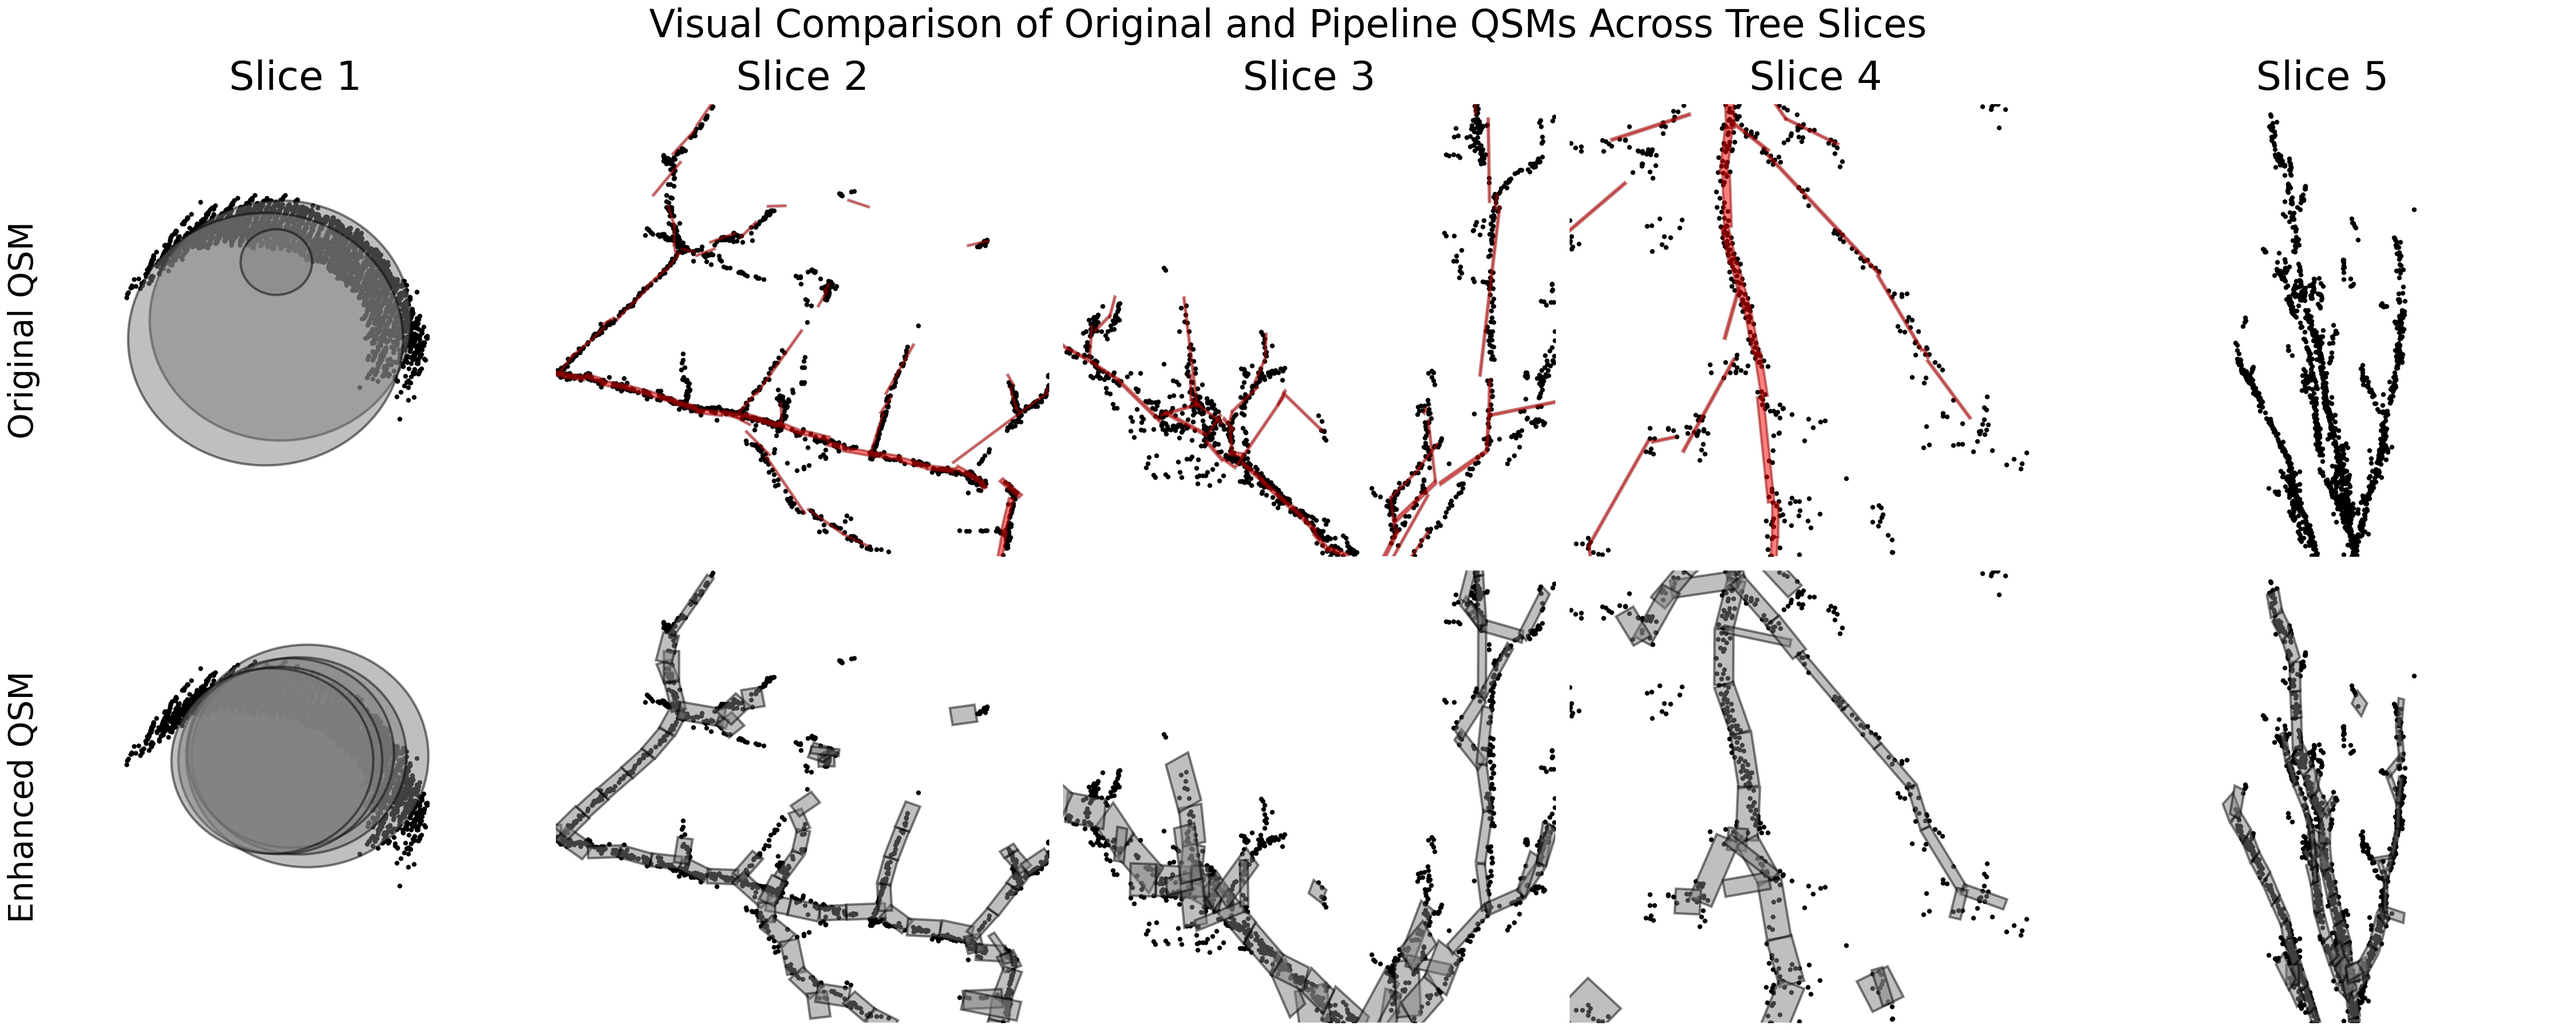
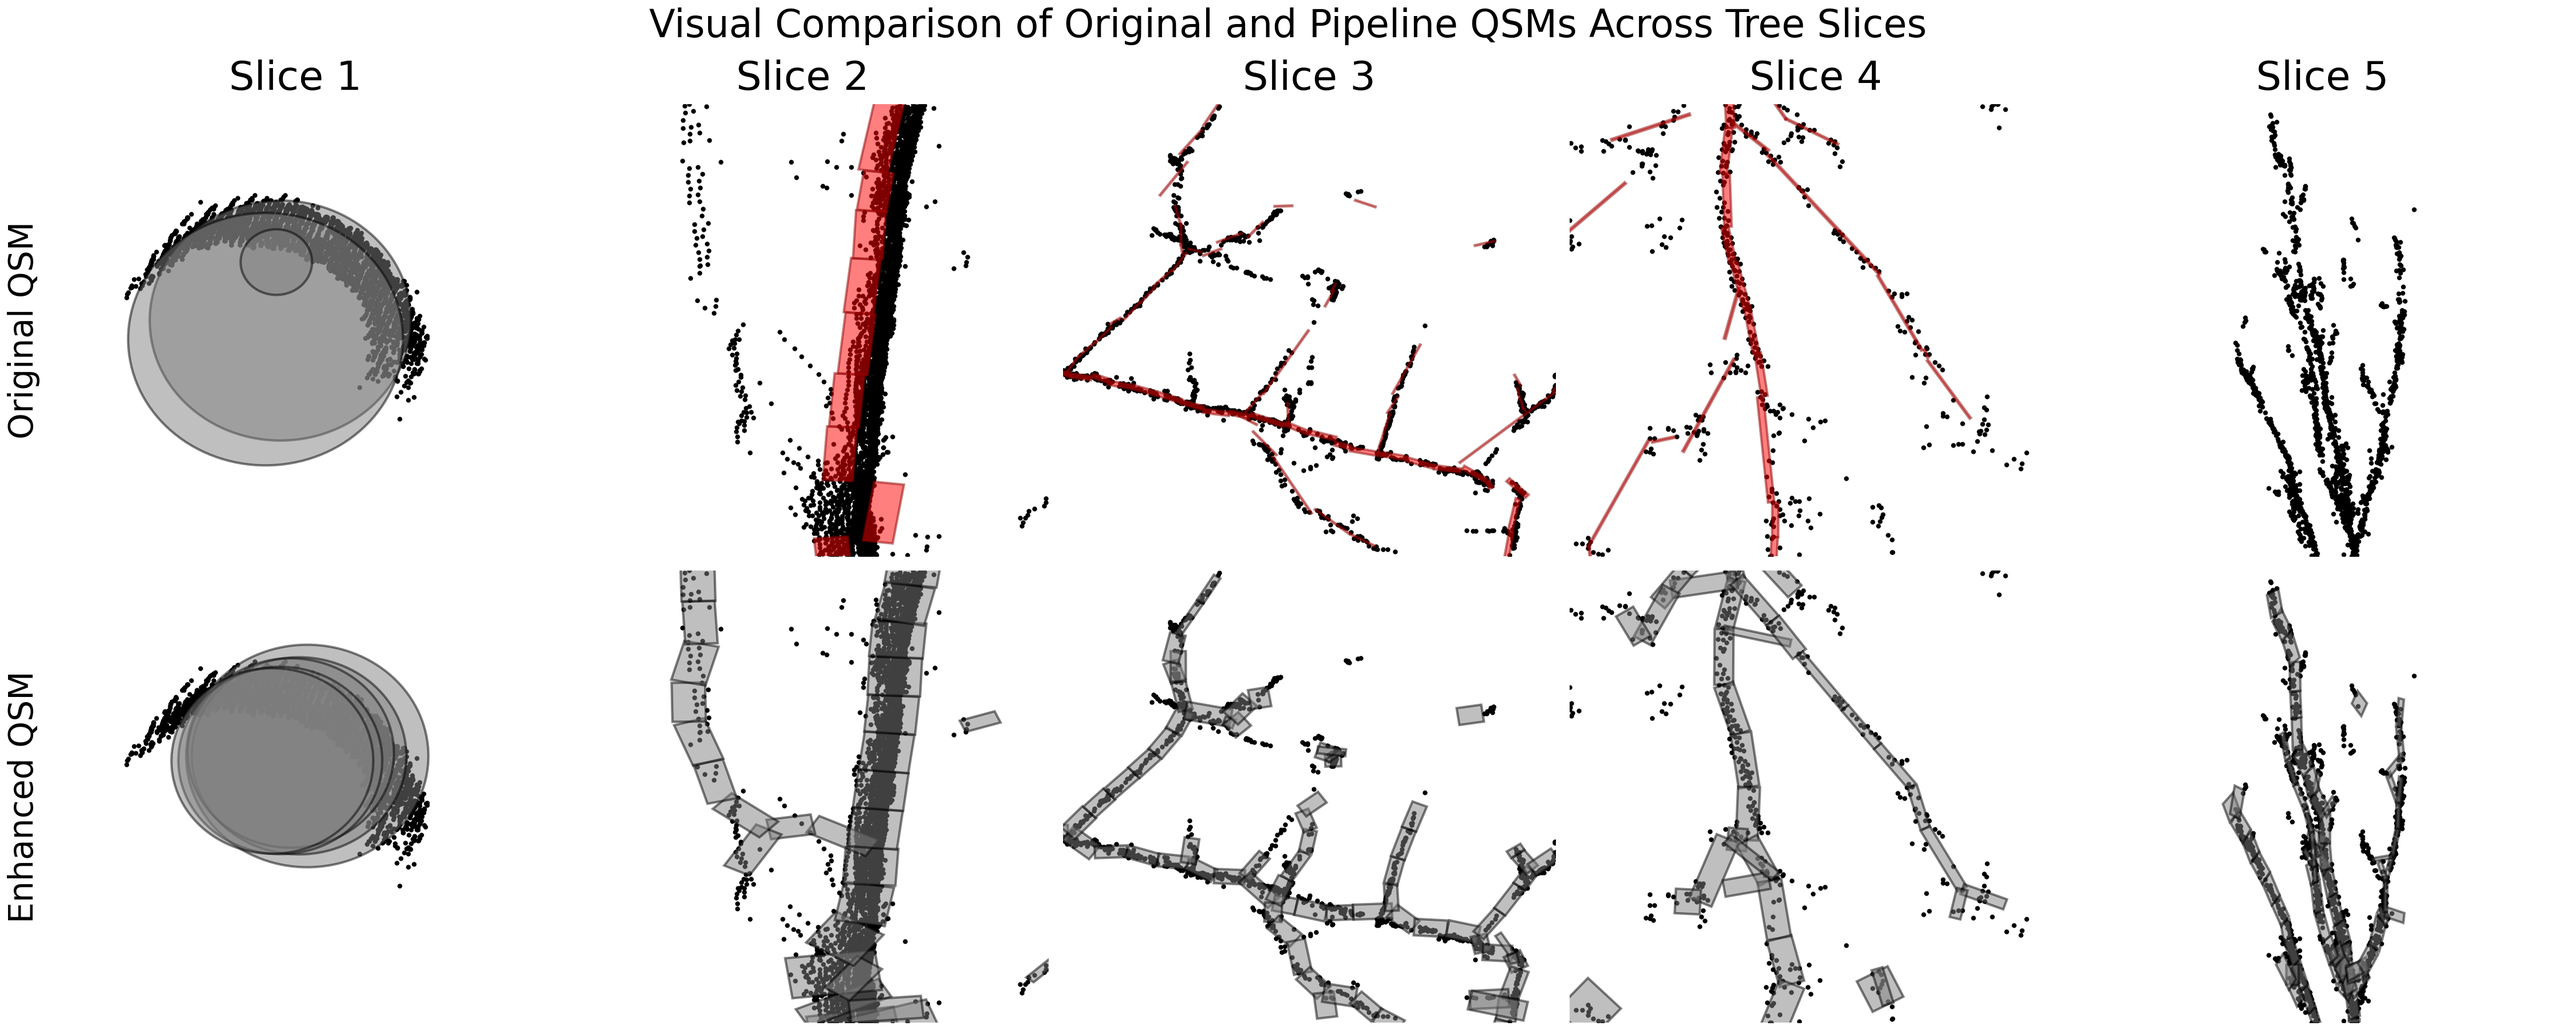
More plotting refinements

Changed region(s): [[0.2178, 0.0933, 0.6222, 0.9956], [0.4978, 0.7156, 0.5289, 0.7467], [0.4667, 0.56, 0.4978, 0.5911]]

diff --git a/Plotting/qsm_comp_new_testset_proportion.py b/Plotting/qsm_comp_new_testset_proportion.py
@@ -1,0 +1,279 @@
+import numpy as np
+import os
+import matplotlib.pyplot as plt
+
+# --- Utility from original script ---
+def get_distances_from_file(file_path):
+    """Loads noise offset norms (distances) from a single .npy file.
+    Assumes the .npy file stores an array where columns 3:6 (0-indexed)
+    are the offset vectors (dx, dy, dz).
+    """
+    if not os.path.exists(file_path):
+        return None
+    try:
+        cloud_data = np.load(file_path, allow_pickle=False)
+        if cloud_data.ndim == 2 and cloud_data.shape[1] >= 6:
+            noise_offsets = cloud_data[:, 3:6]
+            noise_offset_norms = np.linalg.norm(noise_offsets, axis=1)
+            return noise_offset_norms[~np.isnan(noise_offset_norms)]
+        else:
+            return None
+    except Exception as e:
+        print(f"Error loading {file_path}: {e}")
+        return None
+
+# --- Function to get per-tree mean distances ---
+def get_per_tree_mean_distances(orig_qsm_dir, new_qsm_dir, file_suffix="_projected.npy"):
+    """
+    Calculates mean point-to-QSM distances for original and new QSMs for each tree.
+    """
+    mean_dists_orig_m = []
+    mean_dists_new_m = []
+    tree_identifiers = []
+
+    if not os.path.isdir(orig_qsm_dir):
+        print(f"ERROR: Original QSM directory not found or not a directory: {orig_qsm_dir}")
+        return [], [], []
+    if not os.path.isdir(new_qsm_dir):
+        print(f"ERROR: New QSM directory not found or not a directory: {new_qsm_dir}")
+        return [], [], []
+
+    try:
+        new_qsm_files = sorted([
+            f for f in os.listdir(new_qsm_dir)
+            if f.endswith(file_suffix) and os.path.isfile(os.path.join(new_qsm_dir, f))
+        ])
+    except OSError as e:
+        print(f"Error listing files in {new_qsm_dir}: {e}")
+        return [], [], []
+
+    if not new_qsm_files:
+        print(f"No files with suffix '{file_suffix}' found in {new_qsm_dir}")
+        return [], [], []
+
+    # print(f"Found {len(new_qsm_files)} candidate files in {new_qsm_dir} with suffix '{file_suffix}'.")
+
+    for filename in new_qsm_files:
+        tree_id = filename
+        if filename.endswith(file_suffix):
+            tree_id = filename[:-len(file_suffix)]
+
+        orig_file_path = os.path.join(orig_qsm_dir, filename)
+        new_file_path = os.path.join(new_qsm_dir, filename)
+
+        if not os.path.exists(orig_file_path) or not os.path.isfile(orig_file_path):
+            # print(f"Warning: Corresponding original file {orig_file_path} not found/not a file for tree '{tree_id}'. Skipping.")
+            continue
+
+        dist_o_all_points_m = get_distances_from_file(orig_file_path)
+        dist_n_all_points_m = get_distances_from_file(new_file_path)
+
+        valid_o = dist_o_all_points_m is not None and len(dist_o_all_points_m) > 0
+        valid_n = dist_n_all_points_m is not None and len(dist_n_all_points_m) > 0
+
+        if valid_o and valid_n:
+            mean_o_m = np.mean(dist_o_all_points_m)
+            mean_n_m = np.mean(dist_n_all_points_m)
+            mean_dists_orig_m.append(mean_o_m)
+            mean_dists_new_m.append(mean_n_m)
+            tree_identifiers.append(tree_id)
+        # else:
+            # msg = f"Warning: Could not load valid distances for tree '{tree_id}'. Skipping. "
+            # if not valid_o: msg += f"(Problem with original: {orig_file_path}) "
+            # if not valid_n: msg += f"(Problem with new: {new_file_path})"
+            # print(msg)
+    return mean_dists_orig_m, mean_dists_new_m, tree_identifiers
+
+# --- MODIFIED plotting function (axes swapped, tighter, larger fonts) ---
+def plot_mean_distance_comparison(mean_dists_orig_m, mean_dists_new_m, plot_title="QSM Distance Comparison", save_path=None):
+    """
+    Generates a dot plot comparing mean point-to-QSM distances.
+    Y-axis: Distance (0-15cm). X-axis: Trees (no labels).
+    Points are closer, fonts are larger, title overlap fixed.
+    """
+    if not mean_dists_orig_m or not mean_dists_new_m:
+        print("No data to plot (empty mean distance lists).")
+        return
+
+    num_trees = len(mean_dists_orig_m)
+    if num_trees == 0:
+        print("No data to plot (0 trees processed).")
+        return
+    if num_trees != len(mean_dists_new_m):
+        print("Error: Mismatch in number of original and new QSM mean distances.")
+        return
+
+    mean_dists_orig_cm = np.array(mean_dists_orig_m) * 100
+    mean_dists_new_cm = np.array(mean_dists_new_m) * 100
+
+    x_positions = np.arange(num_trees)
+    y_limit_cm = 15.0
+
+    try:
+        plt.style.use('seaborn-v0_8-whitegrid') # Or 'seaborn-v0_8-v2-whitegrid' for newer versions
+    except:
+        plt.style.use('ggplot')
+        # print("Seaborn style not found, using 'ggplot'. Plot appearance may vary.")
+
+    # 3. Font Sizes Increased (by ~1.5x)
+    font_scale = 1.5
+    title_fontsize = 15 * font_scale
+    label_fontsize = 13 * font_scale
+    tick_label_fontsize = 11 * font_scale
+    legend_fontsize = 10 * font_scale
+    annotation_fontsize = 10 * font_scale
+    marker_size = 70 # Slightly larger markers
+
+    # 2. Points Closer Together (X-axis) -> Adjust fig_width calculation
+    fig_height = 6.0  # Increased height for larger y-axis fonts
+    base_fig_width = 4.0 # Base width
+    per_tree_width_factor = 0.38 # Controls spacing between trees, smaller means closer
+    if num_trees > 0:
+        fig_width = base_fig_width + num_trees * per_tree_width_factor
+        fig_width = max(5.0, fig_width)  # Min width
+        fig_width = min(20.0, fig_width) # Max width, e.g., for very many trees
+    else:
+        fig_width = base_fig_width
+
+
+    plt.figure(figsize=(fig_width, fig_height))
+    ax = plt.gca()
+
+    # Plot vertical lines
+    for i in range(num_trees):
+        plot_orig_y = min(mean_dists_orig_cm[i], y_limit_cm)
+        plot_new_y = min(mean_dists_new_cm[i], y_limit_cm)
+        ax.plot([x_positions[i], x_positions[i]], [plot_orig_y, plot_new_y],
+                 color='darkgray', linestyle='-', marker='', zorder=1, linewidth=1.5)
+
+    # Plot points
+    plot_orig_y_coords = np.minimum(mean_dists_orig_cm, y_limit_cm)
+    ax.scatter(x_positions, plot_orig_y_coords, color='royalblue', label='Original QSM', marker='o',
+               zorder=2, s=marker_size, edgecolors='black', linewidth=0.75)
+
+    plot_new_y_coords = np.minimum(mean_dists_new_cm, y_limit_cm)
+    ax.scatter(x_positions, plot_new_y_coords, color='orangered', label='New QSM', marker='o',
+               zorder=2, s=marker_size, edgecolors='black', linewidth=0.75)
+
+    # Add text annotations
+    for i in range(num_trees):
+        orig_val_cm = mean_dists_orig_cm[i]
+        new_val_cm = mean_dists_new_cm[i]
+        x_pos_curr = x_positions[i]
+        text_y_anchor = y_limit_cm
+        orig_exceeds = orig_val_cm > y_limit_cm
+        new_exceeds = new_val_cm > y_limit_cm
+
+        text_x_offset_orig = 0
+        text_x_offset_new = 0
+        if orig_exceeds and new_exceeds and \
+           np.isclose(plot_orig_y_coords[i], y_limit_cm) and \
+           np.isclose(plot_new_y_coords[i], y_limit_cm):
+            # Horizontal offset if both texts for the same tree are at the limit
+            # The effective "width" of a tree lane is roughly fig_width / num_trees
+            # An offset of 10-15% of this visual lane width
+            if num_trees > 0 :
+                # Use a fraction of the average space per tree for offset
+                # A smaller fixed offset related to font may be better if lanes are very tight.
+                # Let's try a slightly larger relative offset.
+                lane_width_approx = (ax.get_xlim()[1] - ax.get_xlim()[0]) / num_trees
+                offset_val = lane_width_approx * 0.15 # 15% of the lane width
+                text_x_offset_orig = -offset_val
+                text_x_offset_new = offset_val
+
+
+        common_text_params = {'ha': 'center', 'va': 'bottom', 'fontsize': annotation_fontsize,
+                              'bbox': dict(facecolor='white', alpha=0.6, pad=0.1, edgecolor='none')}
+        # Y-offset for text, ensuring it's above the 15cm line
+        text_y_plot_pos = text_y_anchor + (y_limit_cm * 0.015) # 1.5% of y_limit above the line
+
+        if orig_exceeds:
+            ax.text(x_pos_curr + text_x_offset_orig, text_y_plot_pos,
+                     f'{orig_val_cm:.1f}', color='royalblue', **common_text_params)
+        if new_exceeds:
+            ax.text(x_pos_curr + text_x_offset_new, text_y_plot_pos,
+                     f'{new_val_cm:.1f}', color='orangered', **common_text_params)
+
+    # X-axis
+    ax.set_xticklabels([])
+    ax.set_xticks([])
+    ax.set_xlim(-0.5, num_trees - 0.5)
+
+    # Y-axis
+    ax.set_ylabel("Mean Point to QSM Distance (cm)", fontsize=label_fontsize)
+    ax.set_ylim(0, y_limit_cm)
+    ax.set_yticks(np.arange(0, y_limit_cm + 1, step=2.5))
+    ax.tick_params(axis='y', labelsize=tick_label_fontsize)
+
+    # 1. Title-Annotation Overlap: Increase pad for title
+    ax.set_title(plot_title, fontsize=title_fontsize, pad=25 * (font_scale/1.5)) # Scale pad with font_scale
+
+    ax.grid(True, axis='y', alpha=1.0)
+    ax.grid(True, axis='x', linestyle=':', alpha=1.0)
+
+    ax.legend(loc='upper right', fontsize=legend_fontsize, frameon=True, facecolor='white', framealpha=0.8,
+              bbox_to_anchor=(0.99, 0.99)) # Place legend more precisely
+
+    ax.spines['top'].set_visible(False)
+    ax.spines['right'].set_visible(False)
+    ax.spines['bottom'].set_visible(False)
+    ax.spines['left'].set_linewidth(1.5) # Make left spine slightly thicker
+
+    # Adjust layout, ensure top margin for title
+    plt.tight_layout(rect=[0.05, 0.05, 0.98, 0.90]) # Left, Bottom, Right, Top
+
+    if save_path:
+        try:
+            plt.savefig(save_path, dpi=300, bbox_inches='tight')
+            print(f"Plot saved to {save_path}")
+        except Exception as e:
+            print(f"Error saving plot to {save_path}: {e}")
+    plt.show()
+
+
+# --- Main execution block ---
+if __name__ == "__main__":
+    # === Configuration: CHOOSE ONE OPTION ===
+
+    # --- OPTION 1: Provide paths to your actual data ---
+    # To use your data, uncomment the following 5 lines and set the paths/names correctly.
+    USE_ACTUAL_DATA = True
+    original_qsm_results_dir = "data/testing/qsm_subset/projected_new/original" # E.g., "data/projected/original"
+    new_qsm_results_dir = "data/testing/qsm_subset/projected_new/TreeLearn"          # E.g., "data/projected/model_X"
+    common_file_suffix = "_labeled_pred_denoised_projected.npy" # Adjust to YOUR file suffix
+    output_plot_filename = "pertree_testset_comp.png"                 # Name for the saved plot
+
+    print(f"Attempting to use actual data from specified paths:")
+    print(f"  Original QSMs dir: {original_qsm_results_dir}")
+    print(f"  New QSMs dir:      {new_qsm_results_dir}")
+    print(f"  File suffix:       {common_file_suffix}")
+    if 'output_plot_filename' not in locals() or not output_plot_filename:
+        print("Warning: output_plot_filename not set for actual data. Using default 'actual_data_qsm_comparison.png'.")
+        output_plot_filename = "actual_data_qsm_comparison.png"
+
+    # --- Load data and generate plot (common to both actual and dummy data) ---
+    mean_distances_original, mean_distances_new, tree_ids = get_per_tree_mean_distances(
+        original_qsm_results_dir,
+        new_qsm_results_dir,
+        common_file_suffix
+    )
+    
+    if mean_distances_original and mean_distances_new: # Check if any data was successfully loaded
+        print("\nMean distances (cm) per tree (Original vs New):")
+        for i, tree_id_val in enumerate(tree_ids): # Renamed tree_id to avoid conflict
+            print(f"  Tree '{tree_id_val}': {mean_distances_original[i]*100:.2f} cm  vs  {mean_distances_new[i]*100:.2f} cm")
+
+        output_plot_path = os.path.join('plots', 'PipelineEval', output_plot_filename)
+        
+        # Ensure the directory for the plot exists
+        os.makedirs(os.path.dirname(output_plot_path), exist_ok=True)
+
+        plot_mean_distance_comparison(
+            mean_distances_original, 
+            mean_distances_new,
+            plot_title="Comparison of Mean Point-to-QSM Distances per Tree",
+            save_path=output_plot_path
+        )
+    else:
+        print("\nNo data was successfully loaded or processed for plotting. Please check paths, file suffix, and file contents.")
+        print("Ensure directories exist and contain valid .npy files with the correct structure.")

diff --git a/Plotting/qsm_comp_new_visual_testset.py b/Plotting/qsm_comp_new_visual_testset.py
@@ -209,12 +209,13 @@ def plot_qsm_comparison_slices(cloud, original_cylinders, enhanced_cylinders, bo
 if __name__ == "__main__":
     bounds = [
         [-24.3, -23.7, -27.9, -27.3, 5.7, 6.2],
+        [-24.6, -24.4, -28.34, -27.47, 11.55, 12.67],
         [-23.4, -21.8, -27.6, -26, 16.4, 16.6],
-        [-27, -25.6, -25.2, -24.3, 18.85, 19.4],
+        #[-27, -25.6, -25.2, -24.3, 18.85, 19.4],
         [-24.3, -23.4, -29.15, -28.3, 21.45, 21.9],
         [-25.4, -24.44, -27.3, -26.68, 25.2, 26.8]
     ]
-    viewFrom = ['z', 'z', 'z', 'z', 'y']
+    viewFrom = ['z', 'x', 'z', 'z', 'y']
 
     cloud = load_cloud(os.path.join('data', 'testing', 'qsm_subset', 'pointcloud_backup', 'AEW28_G_57_hTLS.laz'))
     original_cylinders = pd.read_csv(os.path.join('data', 'testing', 'qsm_subset', 'qsm', 'AEW28_G_57_hTLS_cor.csv'))

diff --git a/Plotting/csv_to_ply.py b/Plotting/csv_to_ply.py
@@ -264,7 +264,7 @@ def csv_to_ply_cylinders(csv_filepath, ply_filepath, resolution=10, min_radius_f
 if __name__ == "__main__":
     parser = argparse.ArgumentParser(description="Convert QSM CSV files in a directory to PLY cylinder meshes, colored by radius.")
     parser.add_argument("--input_dir", type=str, help="Directory containing QSM CSV files.")
-    parser.add_argument("--resolution", type=int, default=10, help="Resolution of the cylinder mesh (number of sides). Default is 10.")
+    parser.add_argument("--resolution", type=int, default=5, help="Resolution of the cylinder mesh (number of sides). Default is 10.")
     parser.add_argument("--min_radius", type=float, default=1e-5, help="Minimum radius for a cylinder to be meshed. Default is 1e-5.")
     
     args = parser.parse_args()

diff --git a/Plotting/qsm_comp_new.py b/Plotting/qsm_comp_new.py
@@ -67,6 +67,8 @@ def load_pointwise_distances_testset(original_base_dir, model_base_dir, model_na
         dist_o = get_distances_from_file(orig_file_path)
         dist_m = get_distances_from_file(model_file_path)
 
+        print(f"D for {filename_with_suffix}; o: {np.mean(dist_o)}; m: {np.mean(dist_m)}")
+
         if dist_o is not None and dist_m is not None:
             if len(dist_o) == len(dist_m):
                 if len(dist_o) > 0: # Ensure not empty after loading
